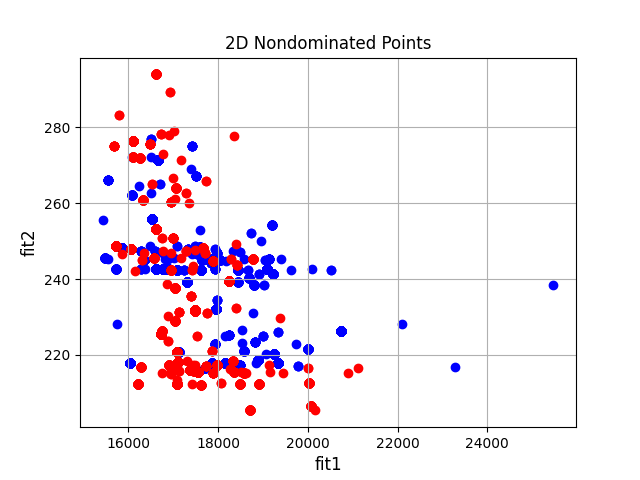
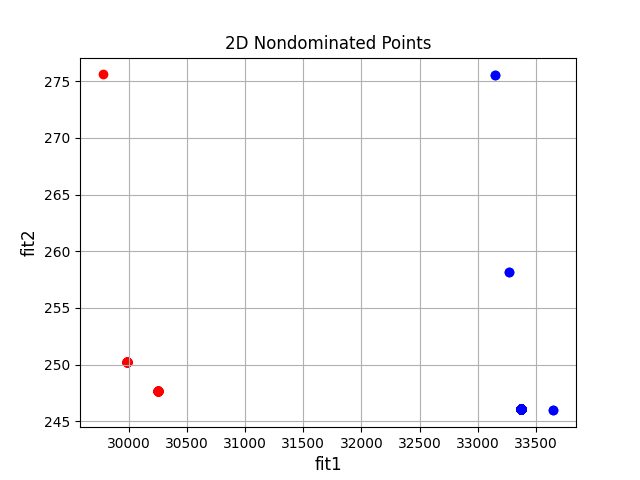
以k-means修改初始化

diff --git a/globalv.py b/globalv.py
@@ -9,7 +9,7 @@ population_size = 100
 
 # 迭代次数
 
-time_max = 300
+time_max = 500
 
 # 变异概率
 
@@ -35,20 +35,40 @@ T_T = 10
 
 
 
-#情况1： 10A 20T
-U_num = 10
-T_num = 20
+# #情况1： 10A 20T
+# U_num = 10
+# T_num = 20
+#
+# # 无人机能力
+# S = [1, 2, 3, 4, 5, 6]
+# A = [5, 6, 7, 8, 9, 10]
+# U_V = [80, 80, 80, 80, 90, 90, 80, 80, 80, 80]
+# U_S = [0, 0, 0, 0, 10, 10, 15, 15, 15, 15]
+# # Tar_start = np.array([[20, 10], [10, 25], [0, 50], [50, 40], [25, 20], [40, 40], [10, 10]])
+# # Tar_start = np.array([[20, 10], [10, 25], [0, 50], [50, 40], [25, 20]])
+# # Tar_start = np.random.randint(0, 500, size=(20, 2))
+# Tar_start = np.array([[462, 167], [254, 410], [357, 496], [421, 96], [357, 454], [140, 498], [447, 251], [251, 178], [192, 401], [160,  24], [411,234], [338, 376], [171, 228], [401,  48], [149,  55], [216, 202], [286, 256], [179, 376], [473, 392], [421, 187]])
+# # Tar_need = np.random.randint(1, 5, size=(20, 1))
+# Tar_need = [2, 3, 4, 1, 4, 2, 4, 4, 2, 4, 2, 1, 2, 2, 1, 1, 2, 1, 3, 4]
+
+
+#情况1： 30A 10T
+U_num = 20
+T_num = 40
 
 # 无人机能力
-S = [1, 2, 3, 4, 5, 6]
-A = [5, 6, 7, 8, 9, 10]
-U_V = [80, 80, 80, 80, 90, 90, 80, 80, 80, 80]
-U_S = [0, 0, 0, 0, 10, 10, 15, 15, 15, 15]
+S = list(range(1, 3 * U_num // 5 + 1))
+A = list(range(2 * U_num // 5 + 1, U_num + 1))
+arr = [80] * U_num  # 初始化数组为 80
+start = U_num // 2 - (U_num // 10)  # 计算中间 n/5 个数的起始索引
+end = start + (U_num // 5)  # 计算中间 n/5 个数的结束索引
+arr[start:end] = [90] * (U_num // 5)  # 替换中间部分为 90
+
+U_V = arr
+U_S = [0] * (2 * U_num // 5) + [10] * (U_num // 5) + [15] * (2 * U_num // 5)
 # Tar_start = np.array([[20, 10], [10, 25], [0, 50], [50, 40], [25, 20], [40, 40], [10, 10]])
 # Tar_start = np.array([[20, 10], [10, 25], [0, 50], [50, 40], [25, 20]])
-# Tar_start = np.random.randint(0, 500, size=(20, 2))
-Tar_start = np.array([[462, 167], [254, 410], [357, 496], [421, 96], [357, 454], [140, 498], [447, 251], [251, 178], [192, 401], [160,  24], [411,234], [338, 376], [171, 228], [401,  48], [149,  55], [216, 202], [286, 256], [179, 376], [473, 392], [421, 187]])
-# Tar_need = np.random.randint(1, 5, size=(20, 1))
-Tar_need = [2, 3, 4, 1, 4, 2, 4, 4, 2, 4, 2, 1, 2, 2, 1, 1, 2, 1, 3, 4]
-
-
+Tar_start = np.random.randint(0, 500, size=(T_num, 2))
+# Tar_start = np.array([[462, 167], [254, 410], [357, 496], [421, 96], [357, 454], [140, 498], [447, 251], [251, 178], [192, 401], [160,  24], [411,234], [338, 376], [171, 228], [401,  48], [149,  55], [216, 202], [286, 256], [179, 376], [473, 392], [421, 187]])
+Tar_need = np.random.randint(1, 5, size=(T_num, 1))
+# Tar_need = [2, 3, 4, 1, 4, 2, 4, 4, 2, 4, 2, 1, 2, 2, 1, 1, 2, 1, 3, 4]

diff --git a/main.py b/main.py
@@ -5,11 +5,12 @@ from improve_NSGA import improve_NSGA
 if __name__ == '__main__':
     nodominated = []
     improved = []
-    for i in range(30):
-        nsga = NSGA()
-        best_pop1, first_pop1 = nsga.evolve()
+    for i in range(1):
         improve = improve_NSGA()
         best_pop2, first_pop2 = improve.evolve()
+        nsga = NSGA()
+        best_pop1, first_pop1 = nsga.evolve()
+
         nodominated.extend(best_pop1)
         improved.extend(best_pop2)
 
